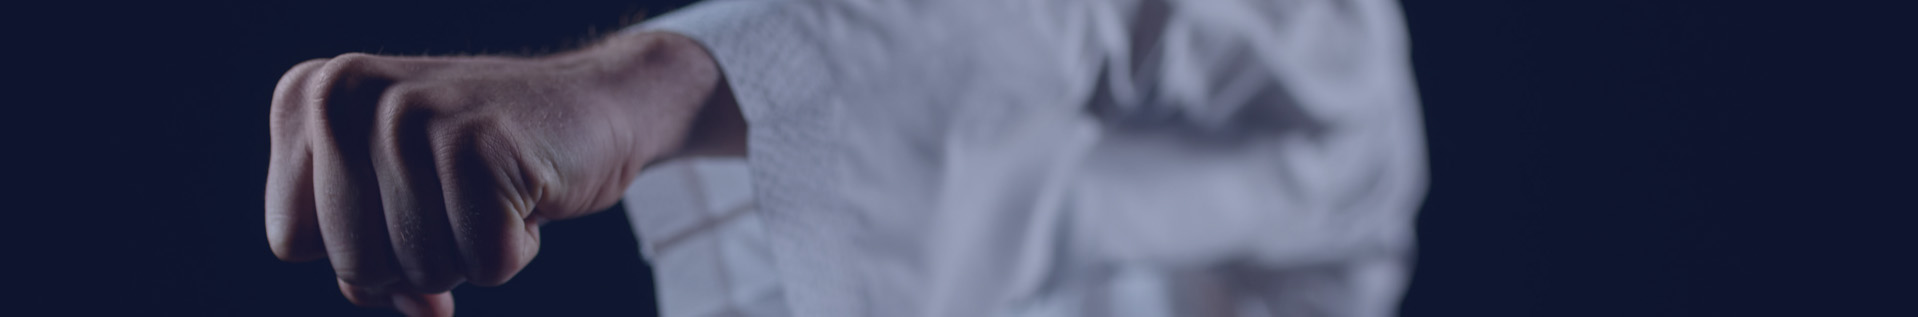
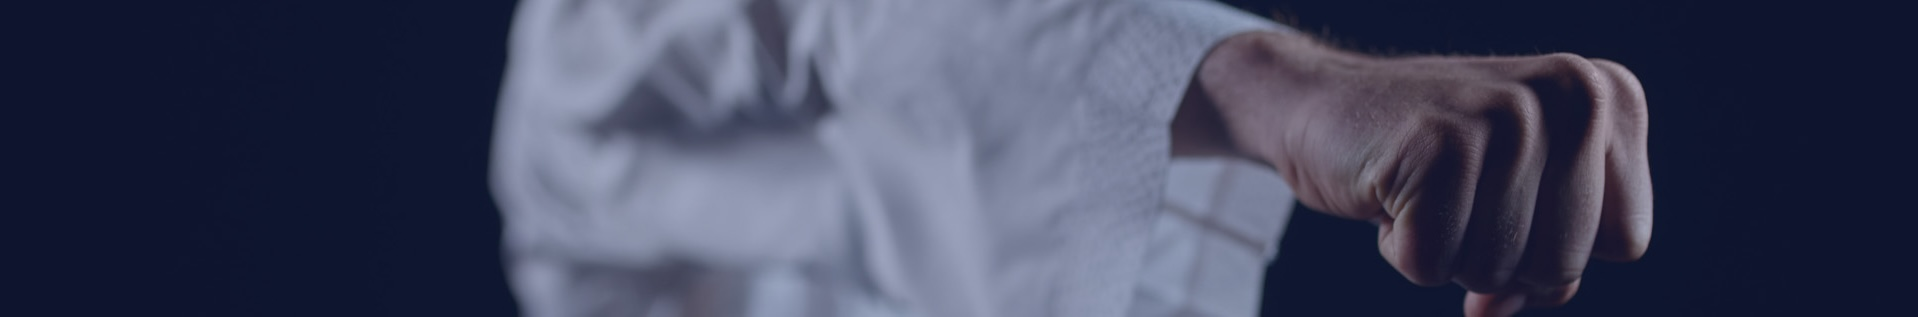
Tilføjet picture

diff --git a/karateEtikette.html b/karateEtikette.html
@@ -30,8 +30,12 @@
                 <li><a href="galleri.html">Galleri</a></li>
             </ul>
         </nav>
-        <section class="hero">
+        <section class="heroetikette">
                 <h1>Karate Etikette</h1>
+                <picture>
+                    <source media="(min-width: 1200px)" srcset="./assets/img/karateetikette/desktop/herokarateslag02.jpg">
+                    <img src="./assets/img/karateetikette/mobil/karateslagmobil01.jpg" alt="Hanoi, Vietnam">
+                </picture>
         </section>
     </header>
     <main>
@@ -65,6 +69,10 @@
             </div>
             </div>
             <div>
+                <picture>
+                    <source media="(min-width: 1200px)" srcset="./assets/img/karateetikette/desktop/osuhilsen.jpg">
+                    <img src="./assets/img/karateetikette/mobil/osuhilsenmobil.jpg" alt="Hanoi, Vietnam">
+                </picture>
                 <img src="./assets/img/karateetikette/mobil/osuhilsenmobil.jpg" alt="">
             </div>
         </article>

diff --git a/assets/css/style.css b/assets/css/style.css
@@ -206,15 +206,24 @@ footer i {
 /* Aktiviteter styling - Slut */
 
 /* Karateettikette styling */
-.hero {
+.heroetikette img {
     height: 160px;
-    background-image: url(../img/karateetikette/mobil/karateslagmobil01.jpg);
-    background-size: cover;
-    display: flex;
-    align-items: center;
-    padding: 8.91vw;
-    margin-bottom: 1.25rem;
+    object-fit: cover;
+    object-position: top;
 }
+
+.heroetikette {
+    height: 160px;
+    margin-bottom: 2rem;
+    position: relative;
+}
+
+.heroetikette h1 {
+    position: absolute;
+    bottom: 50%;
+    left: 35px;
+}
+
 
 .numbercontainer {
     display: flex;
